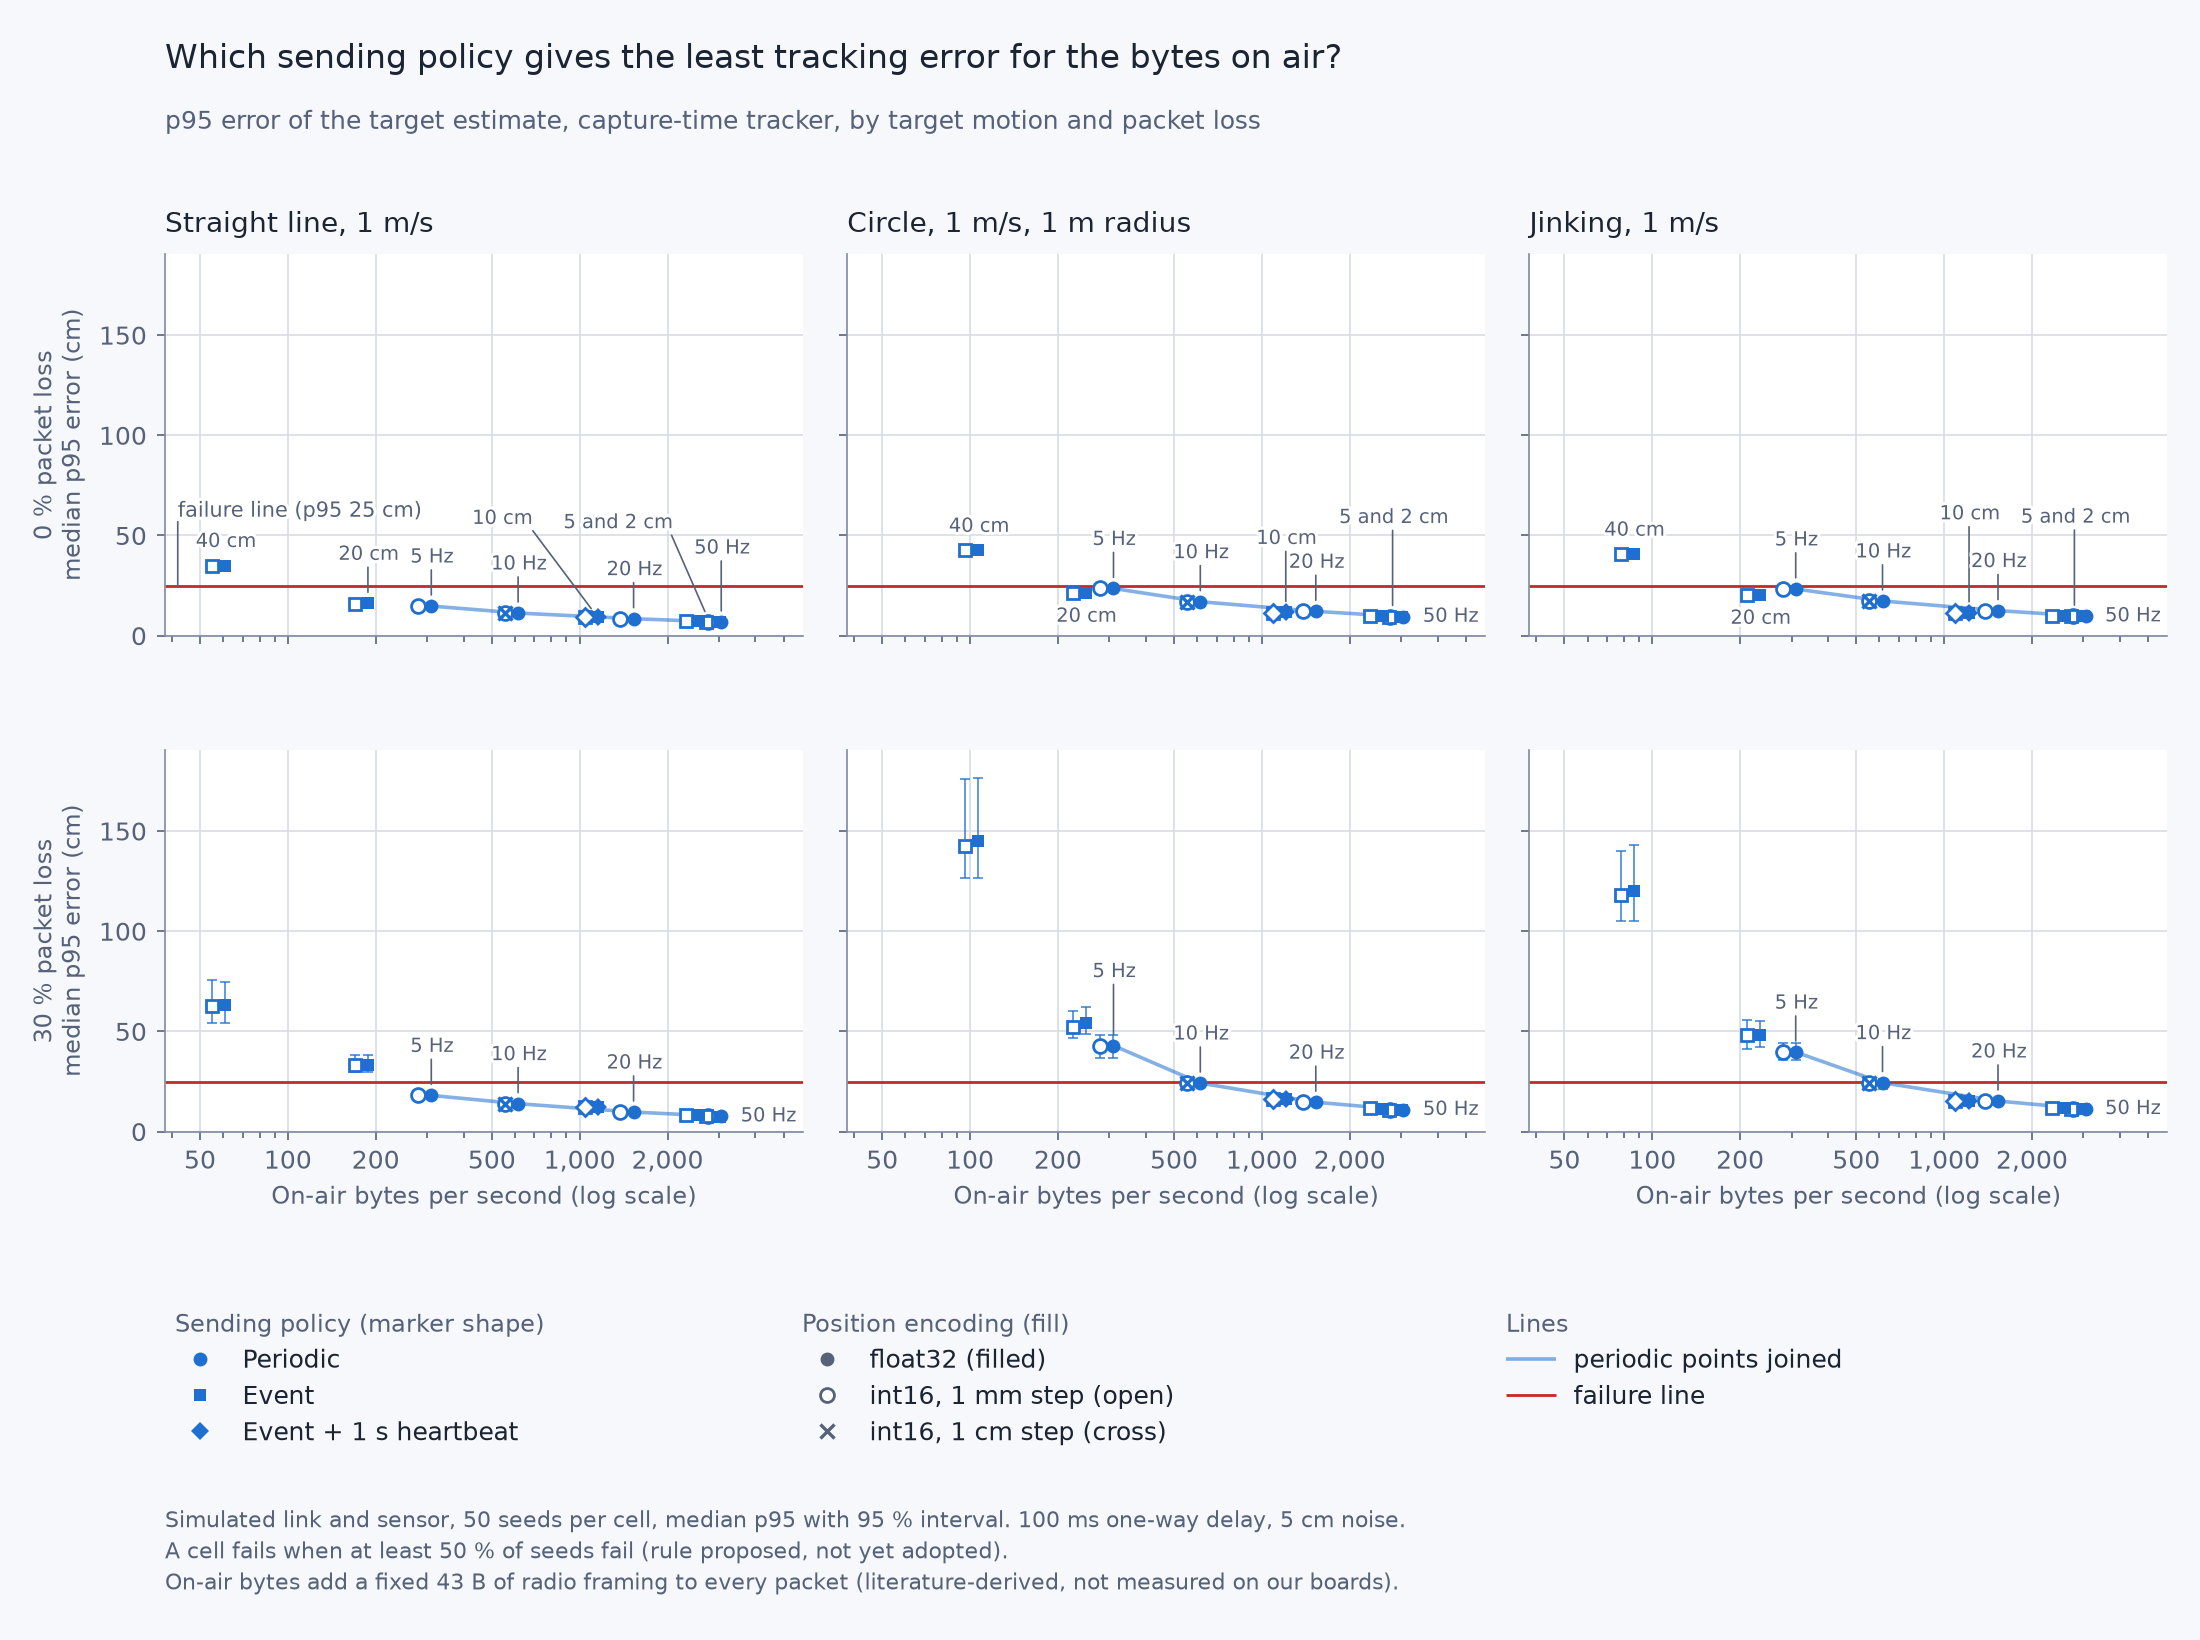
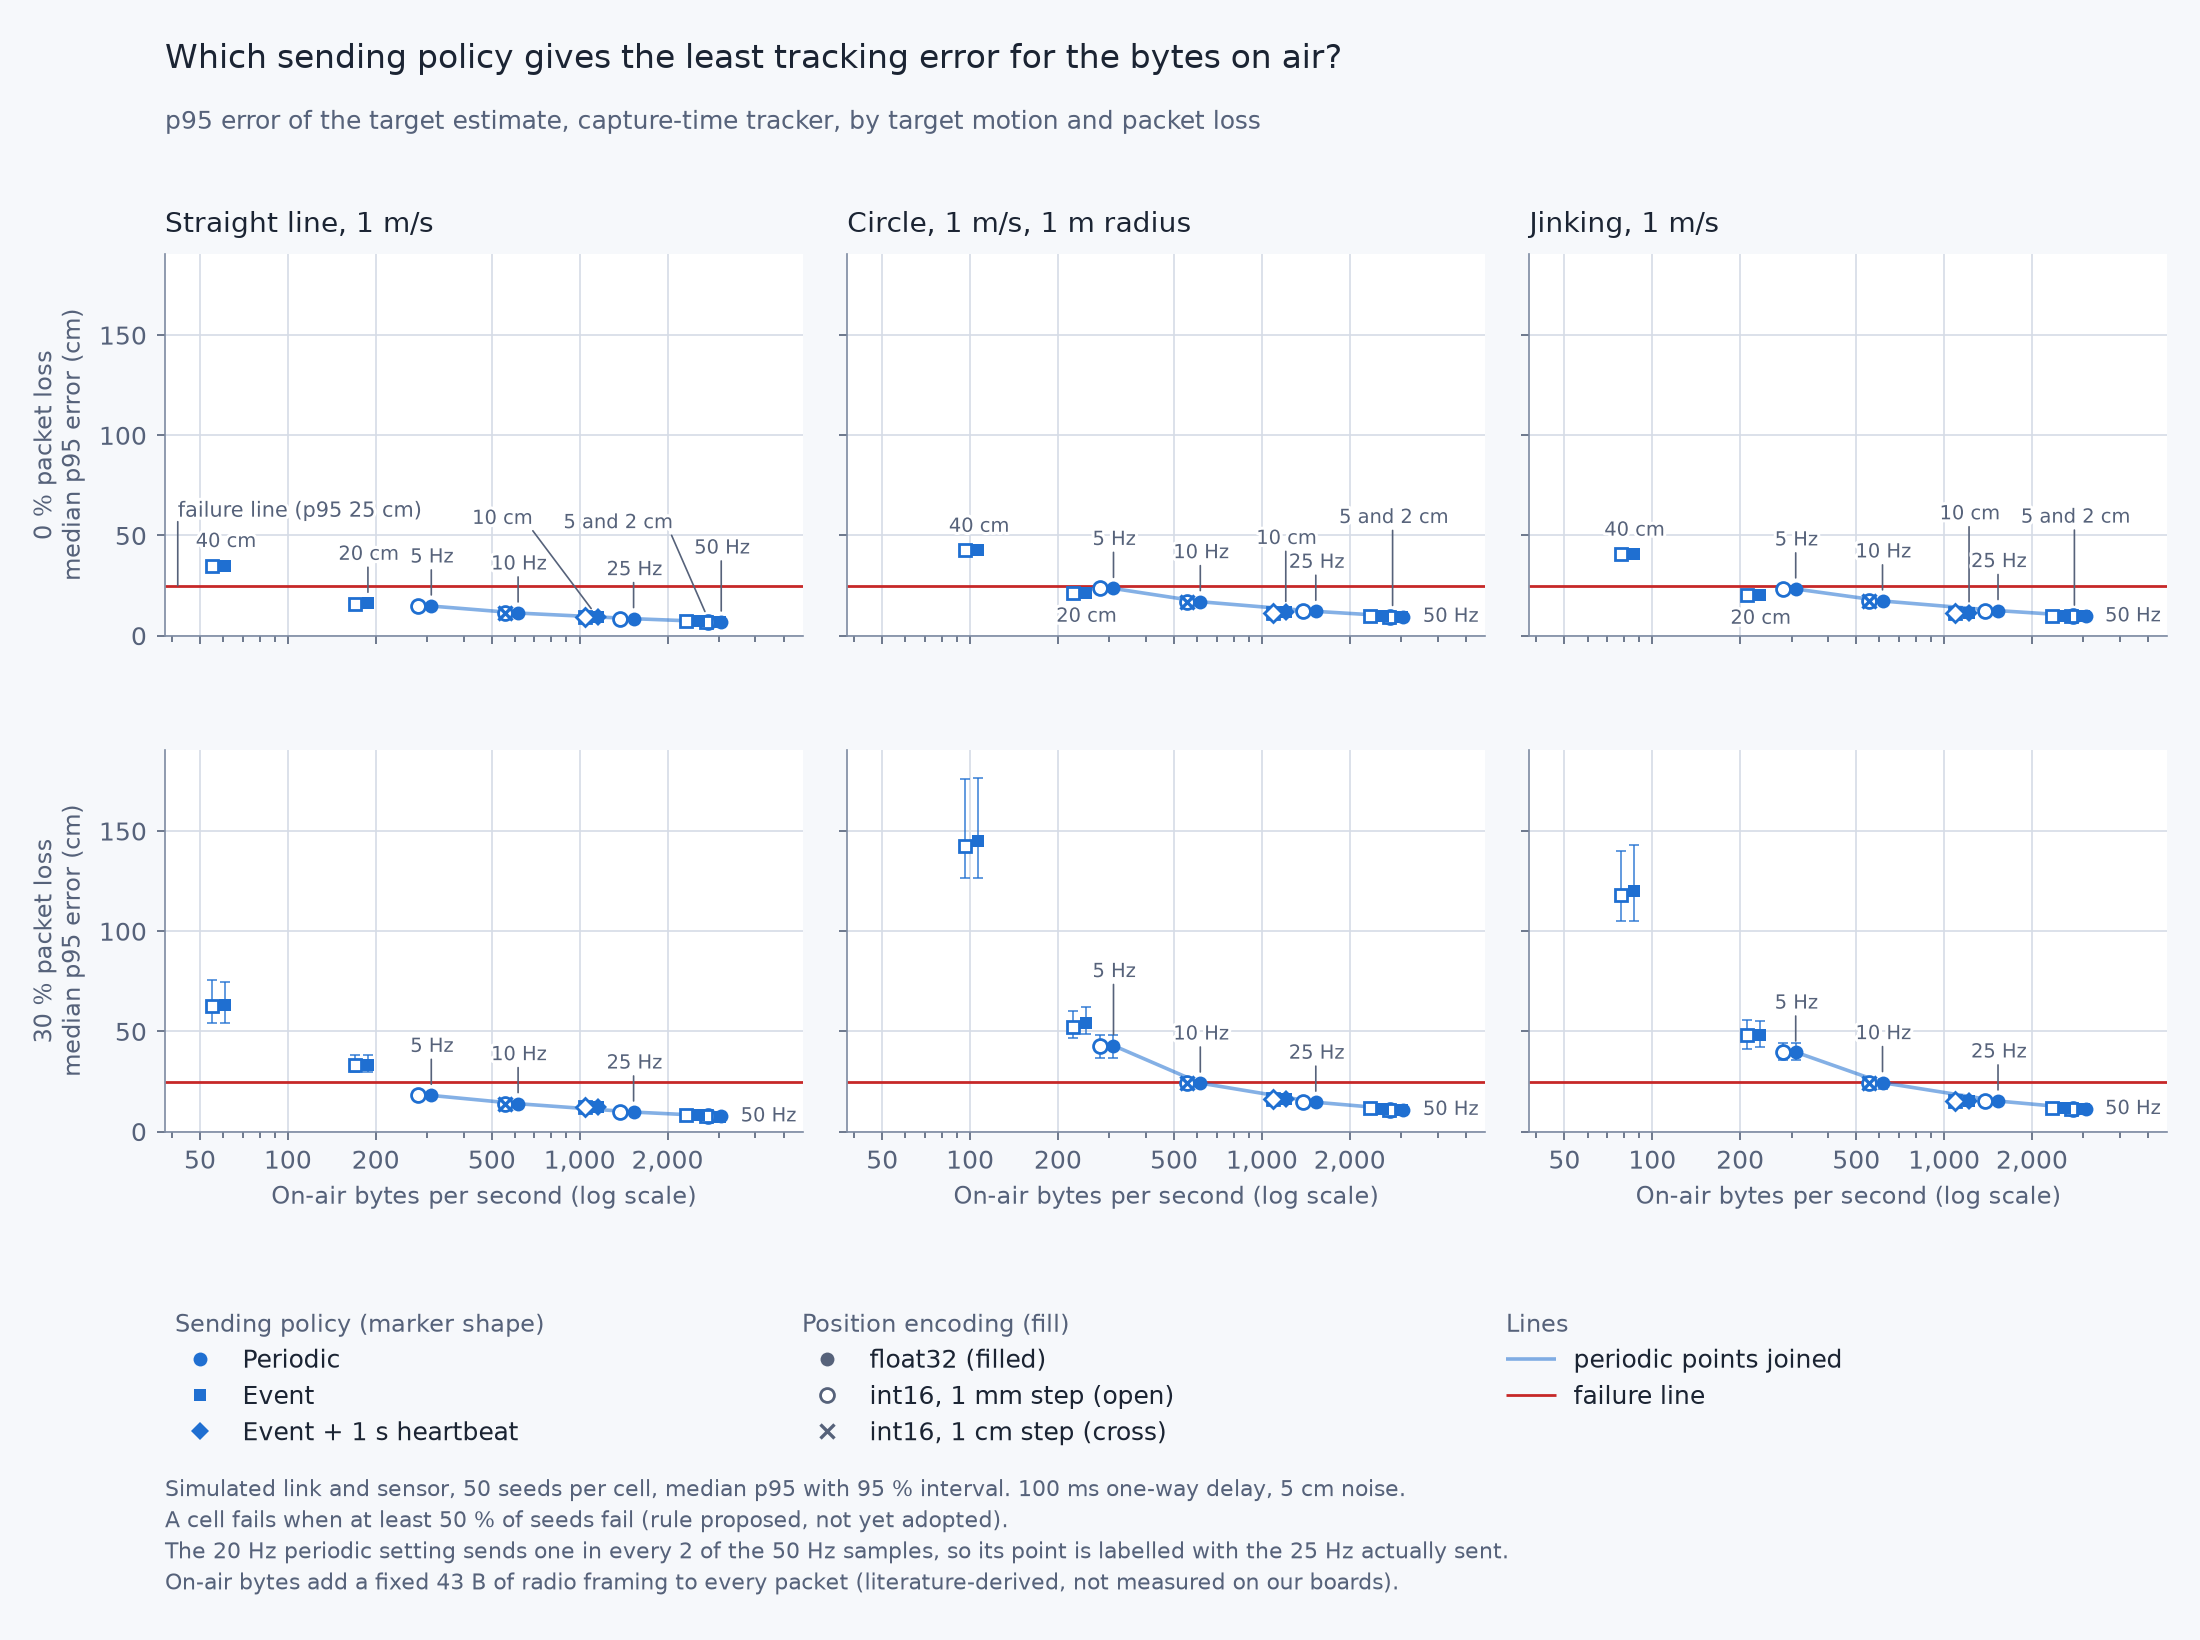
Label periodic sending points with the rate actually sent

Changed region(s): [[0.0618, 0.9018, 0.68, 0.964]]

diff --git a/tools/make_s6_sending_figure.py b/tools/make_s6_sending_figure.py
@@ -127,10 +127,28 @@ def encoding_of(params: dict) -> str:
     return "i16" if abs(step - 0.001) < 1e-9 else "i16_coarse"
 
 
-def point_label(params: dict) -> str:
+def point_label(params: dict, budget: dict | None = None) -> str:
+    """Periodic points show the rate actually sent, which can differ from the setting
+    (every round(sensor rate / setting)-th sample is sent)."""
     if params["kind"] == "periodic":
+        if budget and "packets_per_second_median" in budget:
+            return f"{round(budget['packets_per_second_median']):g} Hz"
         return f"{params['rate_hz']:g} Hz"
     return f"{params['delta_m'] * 100:g} cm"
+
+
+def rate_mismatches(doc) -> list:
+    """(setting, rate sent) for periodic settings whose sent rate rounds to another value."""
+    seen = {}
+    for cell in doc["cells"]:
+        params = (cell.get("cell") or {}).get("sender") or {}
+        budget = cell.get("budget") or {}
+        if params.get("kind") == "periodic" and "packets_per_second_median" in budget:
+            sent = round(budget["packets_per_second_median"])
+            if sent != params["rate_hz"]:
+                sensor = cell["cell"]["rate_hz"]
+                seen[params["rate_hz"]] = (sent, round(sensor / params["rate_hz"]), sensor)
+    return sorted(seen.items())
 
 
 def select_points(doc: dict) -> dict:
@@ -205,7 +223,7 @@ def draw_panel(ax, pts, xkey, pal, color, label_events):
         ax.plot([x], [y], linestyle="none", marker=marker, markersize=FAMILY_SIZE[fam],
                 markerfacecolor=face, markeredgecolor=edge, markeredgewidth=width if marker != "x" else 1.2,
                 zorder=4)
-    wants = [{"text": point_label(p["params"]), "x": p["budget"][xkey], "y": p["med"] * 100,
+    wants = [{"text": point_label(p["params"], p["budget"]), "x": p["budget"][xkey], "y": p["med"] * 100,
               "kind": "periodic"} for p in periodic]
     if label_events:
         events = sorted((p for p in pts if p["family"] == "event" and p["encoding"] == "f32"),
@@ -486,6 +504,9 @@ def footnote_text(doc, n_seeds, mode):
         f"{fmt_g(MAIN_DELAY_S * 1000)} ms one-way delay, {fmt_g(MAIN_NOISE_M * 100)} cm noise.",
         "A cell fails when at least 50 % of seeds fail (rule proposed, not yet adopted).",
     ]
+    for setting, (sent, stride, sensor) in rate_mismatches(doc):
+        lines.append(f"The {fmt_g(setting)} Hz periodic setting sends one in every {stride} of the {fmt_g(sensor)} Hz "
+                     f"samples, so its point is labelled with the {fmt_g(sent)} Hz actually sent.")
     if mode == "bytes":
         lines.append(overhead_note(doc))
     return "\n".join(lines)
